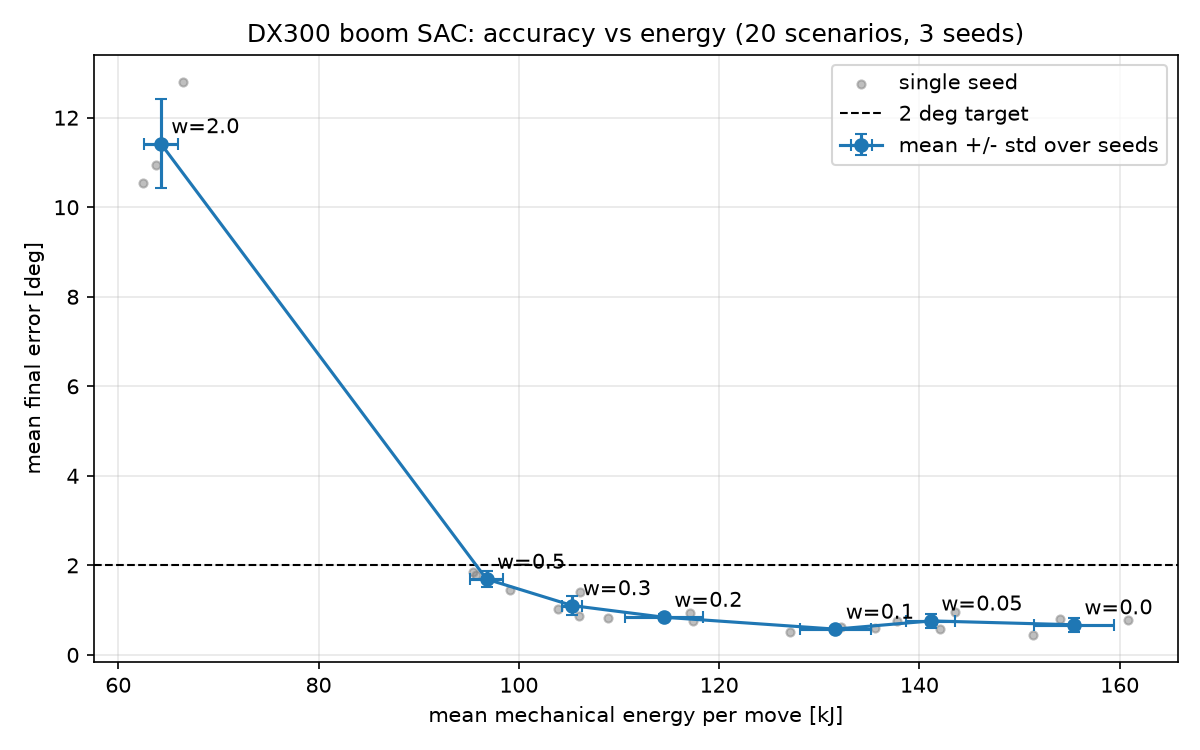
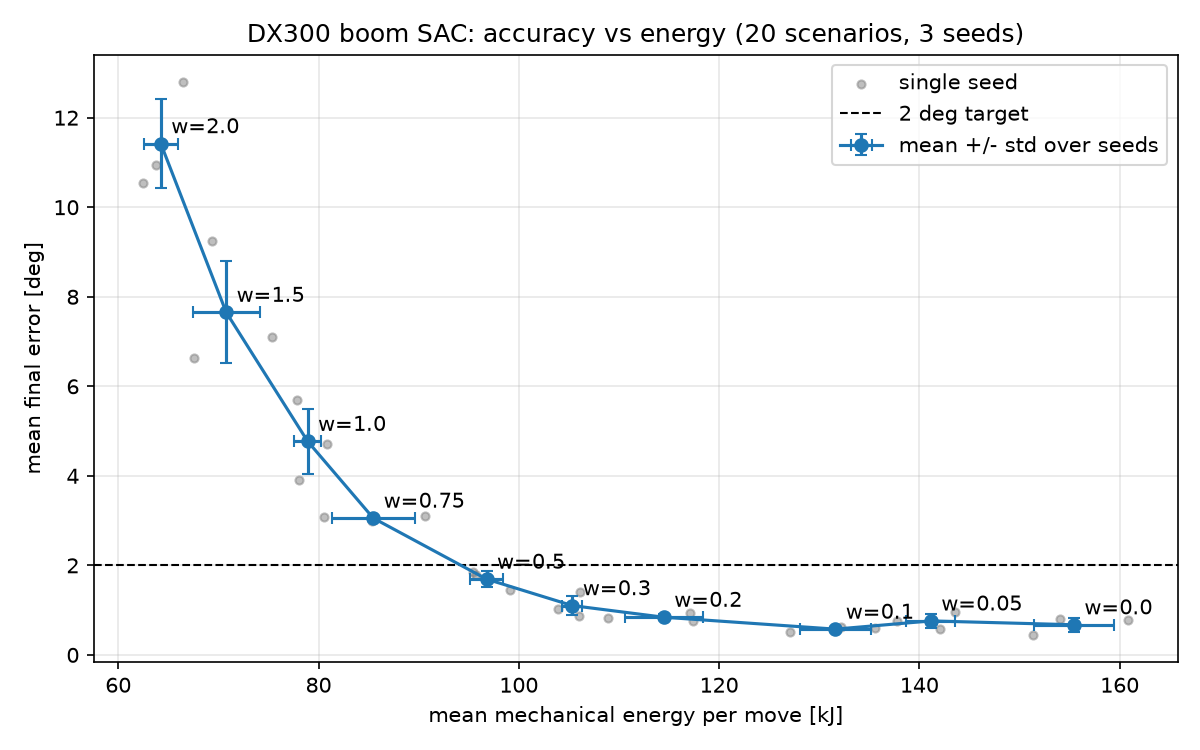
Knee sweep: add w=0.75/1.0/1.5; 2 deg limit crossed near w=0.55

Changed region(s): [[0.1233, 0.184, 0.2775, 0.4907], [0.2467, 0.644, 0.4008, 0.7667], [0.2158, 0.4907, 0.3392, 0.644]]

diff --git a/rl/04_knee_sweep.py b/rl/04_knee_sweep.py
@@ -11,7 +11,7 @@ import matplotlib.pyplot as plt
 from stable_baselines3 import SAC
 from boom_env import BoomEnv
 
-WEIGHTS = [0.0, 0.05, 0.1, 0.2, 0.3, 0.5, 2.0]
+WEIGHTS = [0.0, 0.05, 0.1, 0.2, 0.3, 0.5, 0.75, 1.0, 1.5, 2.0]
 SEEDS = [0, 1, 2]
 STEPS = 20_000
 CSV_PATH = "rl/04_knee_sweep.csv"
